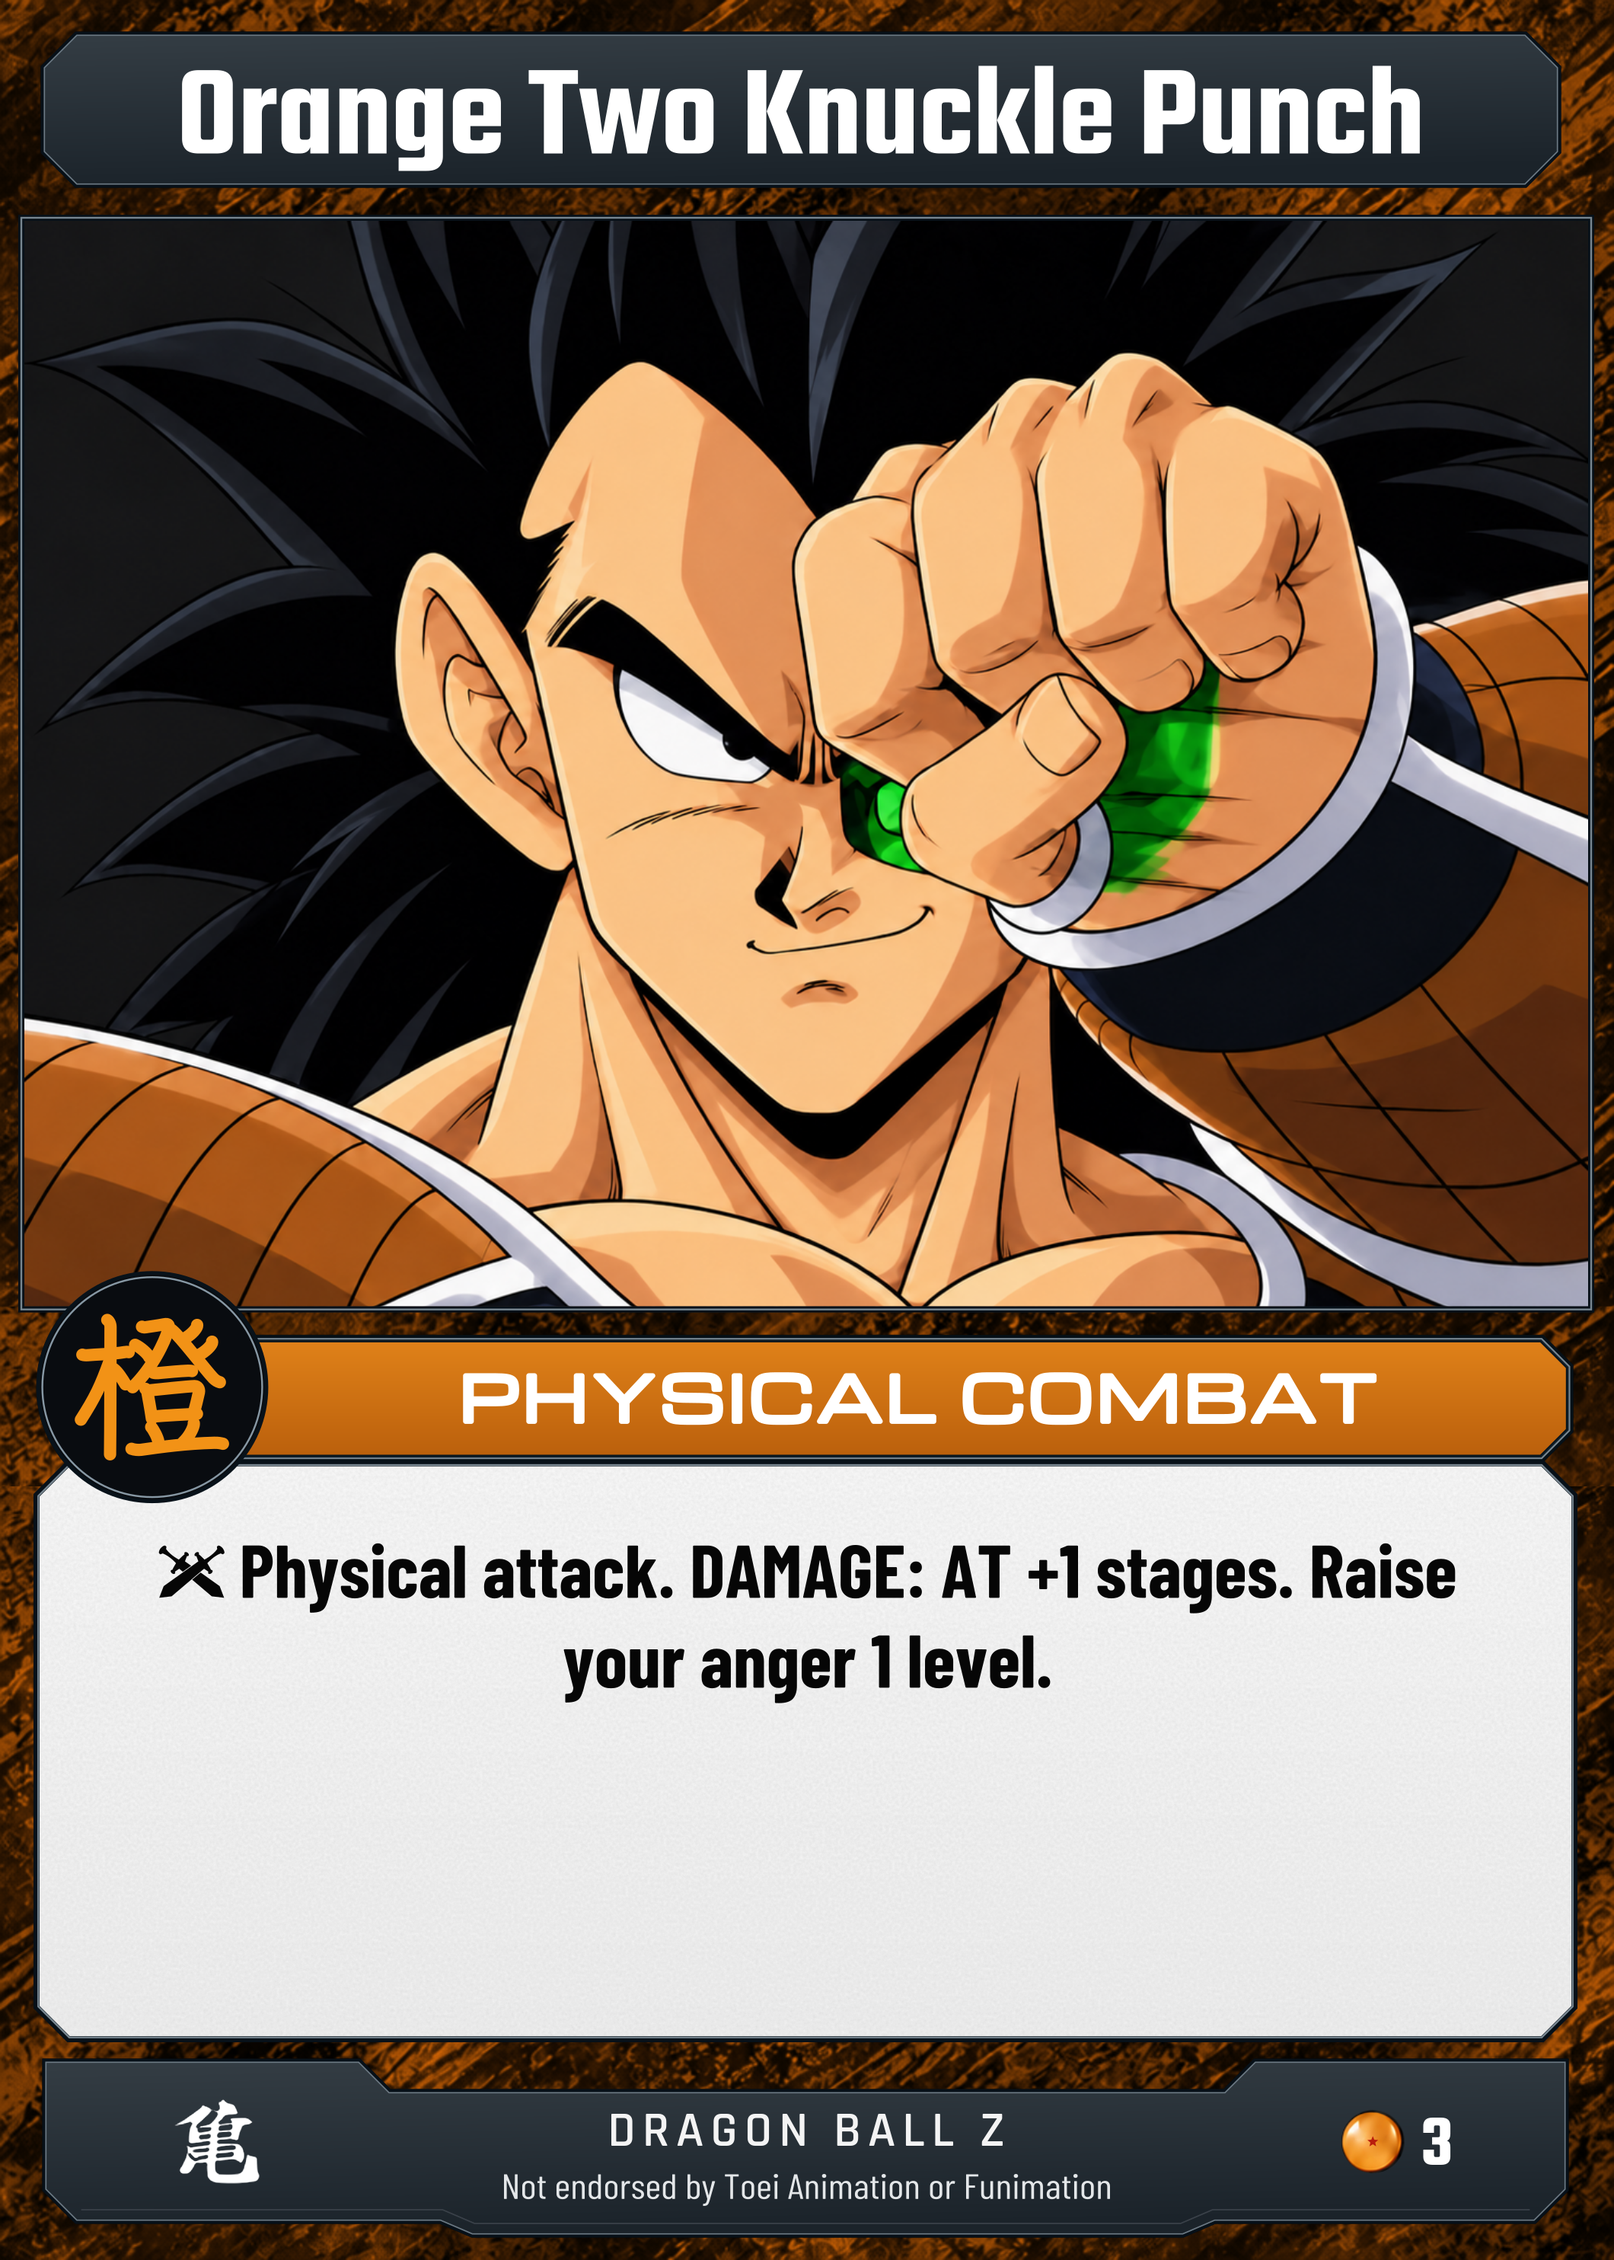
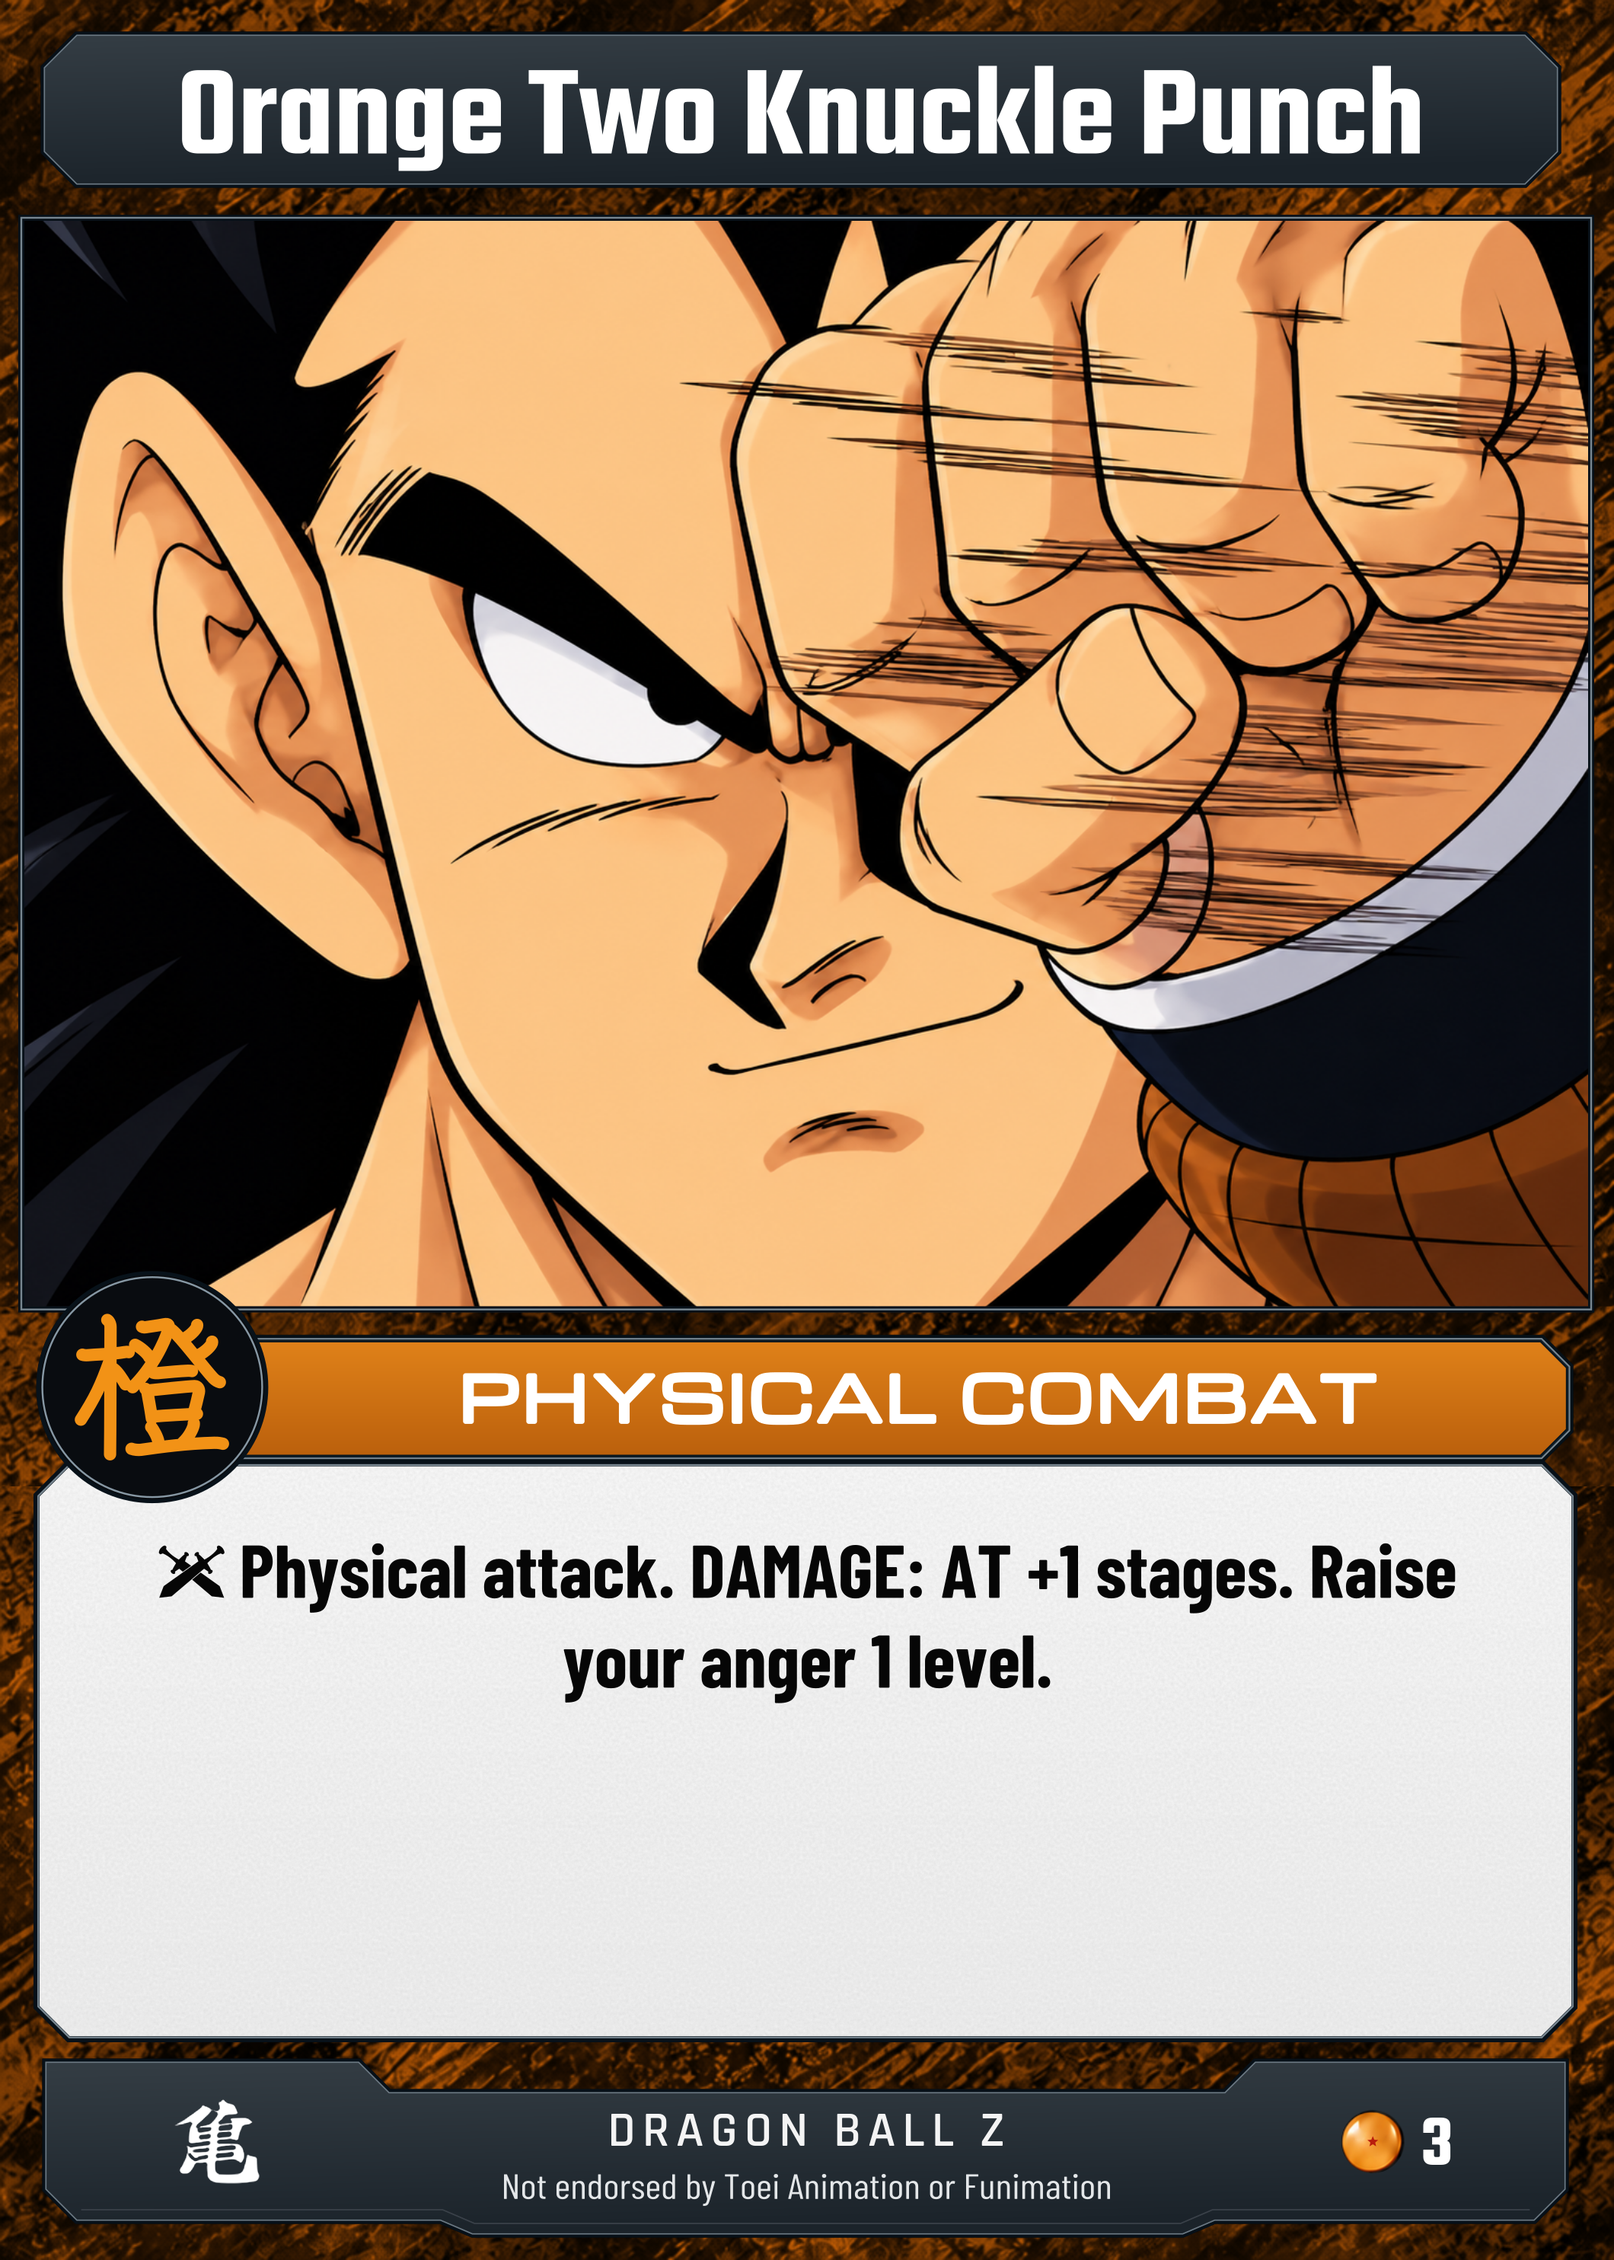
Restore Orange Two Knuckle Punch close-up and remove invented green object

diff --git a/public/cards/catalog.js b/public/cards/catalog.js
@@ -35,11 +35,11 @@ export const catalog = [
     "style": "Orange",
     "set": "Saiyan Saga",
     "status": "Ready",
-    "image": "/assets/cards/saiyan-003-orange-two-knuckle-punch.webp?v=41875789328b",
+    "image": "/assets/cards/saiyan-003-orange-two-knuckle-punch.webp?v=628e106aa5e9",
     "width": 1060,
     "height": 1484,
     "source": "https://retrodbzccg.com/card-images/saiyan-saga-commons/",
-    "downloadImage": "/assets/cards/downloads/saiyan-003-orange-two-knuckle-punch.webp?v=44ce7c6ef11f"
+    "downloadImage": "/assets/cards/downloads/saiyan-003-orange-two-knuckle-punch.webp?v=7b60caf2b1df"
   },
   {
     "id": "saiyan-004-orange-leg-sweep",
